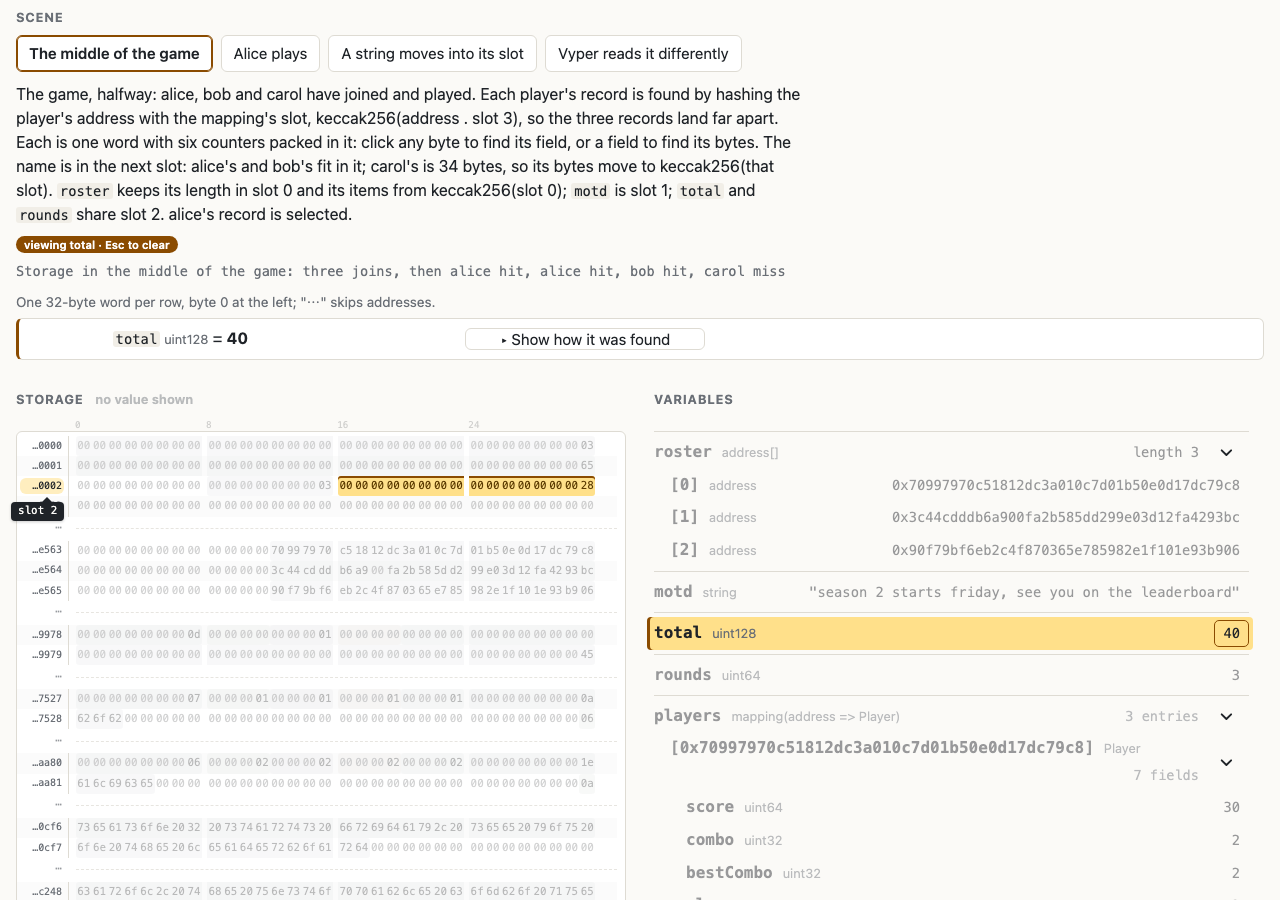
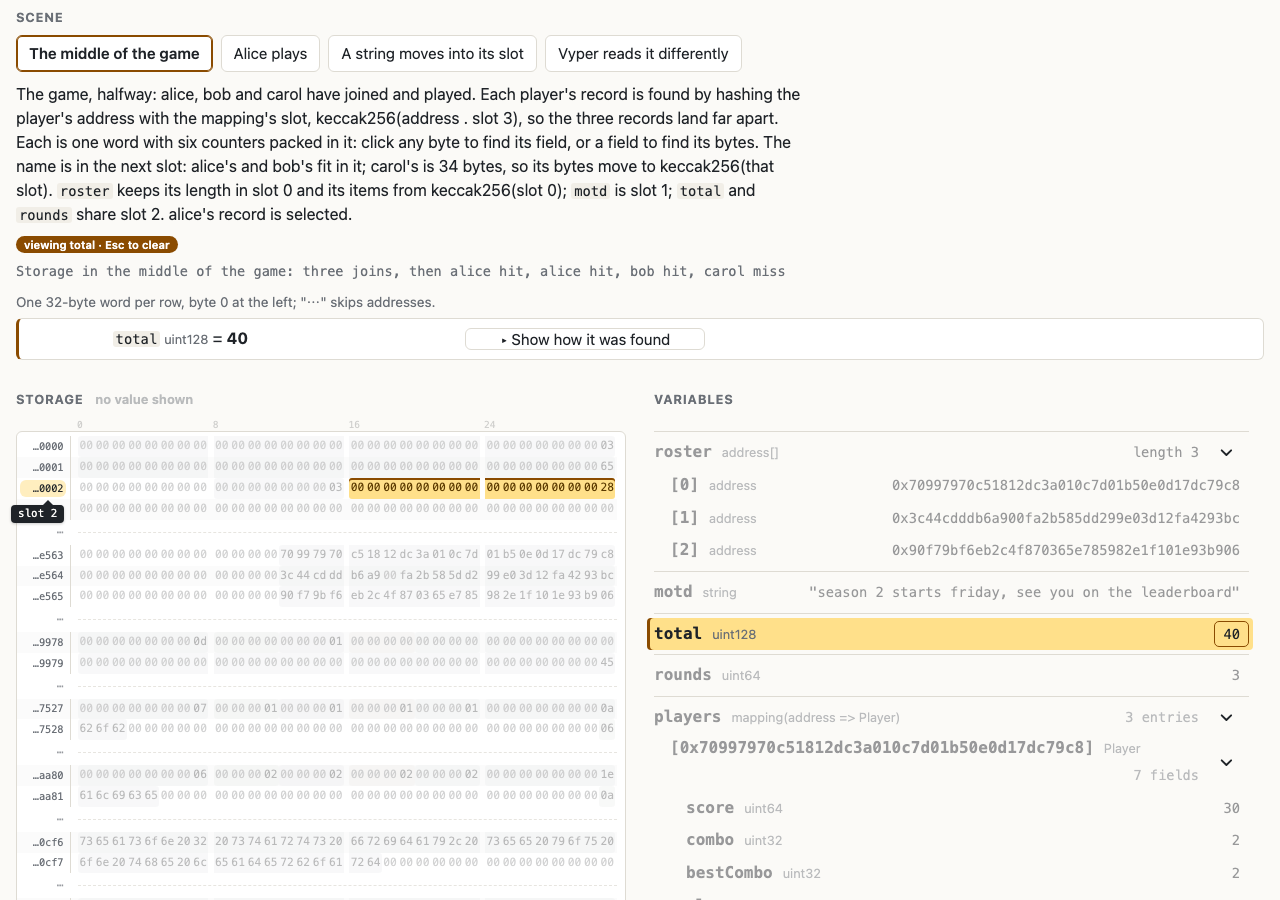
Inspector: each dump's font is the largest at which its row fits the box (a row's width in em measured once per layout)

diff --git a/demos/inspector/main.js b/demos/inspector/main.js
@@ -236,7 +236,26 @@ function treeTo(path) {
     tree.scrollTop += r.top - b.top - (b.height - r.height) / 2;
   }
 }
-addEventListener("resize", () => current && alignColumns());
+// Each dump's font: the largest at which its row fits the box (CSS,
+// .views); a row's width in em, in this font, measured once for each
+// layout (32 bytes a line, or 16 on a narrow box)
+function fitDumps() {
+  for (const d of document.querySelectorAll(".dump")) {
+    const row = d.querySelector(".view:not([hidden]) .rows > .wrow");
+    if (!row || !d.clientWidth) continue;
+    const key = d.clientWidth < 560 ? "--k16" : "--k32";
+    if (d.style.getPropertyValue(key)) continue;
+    const fs = parseFloat(getComputedStyle(row).fontSize);
+    const w = row.querySelector(".word").getBoundingClientRect().right -
+      row.getBoundingClientRect().left;
+    d.style.setProperty(key, (w / fs).toFixed(4));
+  }
+}
+window.fitDumps = fitDumps;
+addEventListener("resize", () => {
+  fitDumps();
+  if (current) alignColumns();
+});
 document.addEventListener("scroll", (e) => {
   if (e.target.id === "tree") edges();
 }, true);
@@ -248,8 +267,10 @@ function render() {
   $("summary").textContent = scene.summary;
   showScene(scene);
   showCalldata(scene.calldata ? f.tx.input : null, scene.calldata);
+  fitDumps();
   renderTree();
   $("panel").innerHTML = renderPanel(current.panel);
+  fitDumps();
   hover = null;
   chosen = null;
   applyMode();

diff --git a/demos/inspector/style.css b/demos/inspector/style.css
@@ -337,9 +337,15 @@ li.same > .row .name, li.same > .row .type { opacity: 0.55; }
   row-gap: 16px;
   font-family: var(--mono);
   font-variant-numeric: tabular-nums;
-  /* gutter, 32 cells and three gaps: about 52 em of monospace,
-     more in some fonts */
-  font-size: clamp(0.66rem, calc(100cqi / 56), 0.95rem);
+  /* the largest size at which a row (gutter, 32 cells and three gaps;
+     16 cells on a narrow box) fits the box: --k32 and --k16 are a row's
+     width in em, measured once in this font (main.js fitDumps); 12px is
+     the rows' padding and border */
+  font-size: clamp(10px, calc((100cqi - 12px) / var(--k32, 56)), 20px);
+}
+@container (max-width: 559.98px) {
+  .views { font-size: clamp(10px, calc((100cqi - 12px) / var(--k16, 30)),
+    20px); }
 }
 .swipe { display: none; margin: 0 0 6px; }
 /* On a narrow panel (a phone), each word is two lines of 16 bytes, so

diff --git a/demos/inspector/panel.js b/demos/inspector/panel.js
@@ -800,8 +800,8 @@ function fit(el, rows) {
   const row = rows[0].getBoundingClientRect();
   const photo = el.querySelector(".cmp-photo");
   photo.style.width = `${row.width}px`;
-  // 6px of room left of the addresses (CSS), a little less on the right
-  el.querySelector(".cmp-frame").style.width = `${row.width + 3}px`;
+  // 6px of room left of the addresses (CSS), 3px right of the bytes
+  el.querySelector(".cmp-frame").style.width = `${row.width + 9}px`;
   el.style.left = "0px";
 }
 

diff --git a/demos/inspector/mem.js b/demos/inspector/mem.js
@@ -710,6 +710,7 @@ function render() {
   if (!two()) mode = "after";
   $("mtree").innerHTML = renderValues(model);
   $("mpanel").innerHTML = renderDumps(model);
+  window.fitDumps?.();
   for (const v of $("mpanel").querySelectorAll(".view")) {
     v.hidden = v.dataset.side !== mode;
   }
